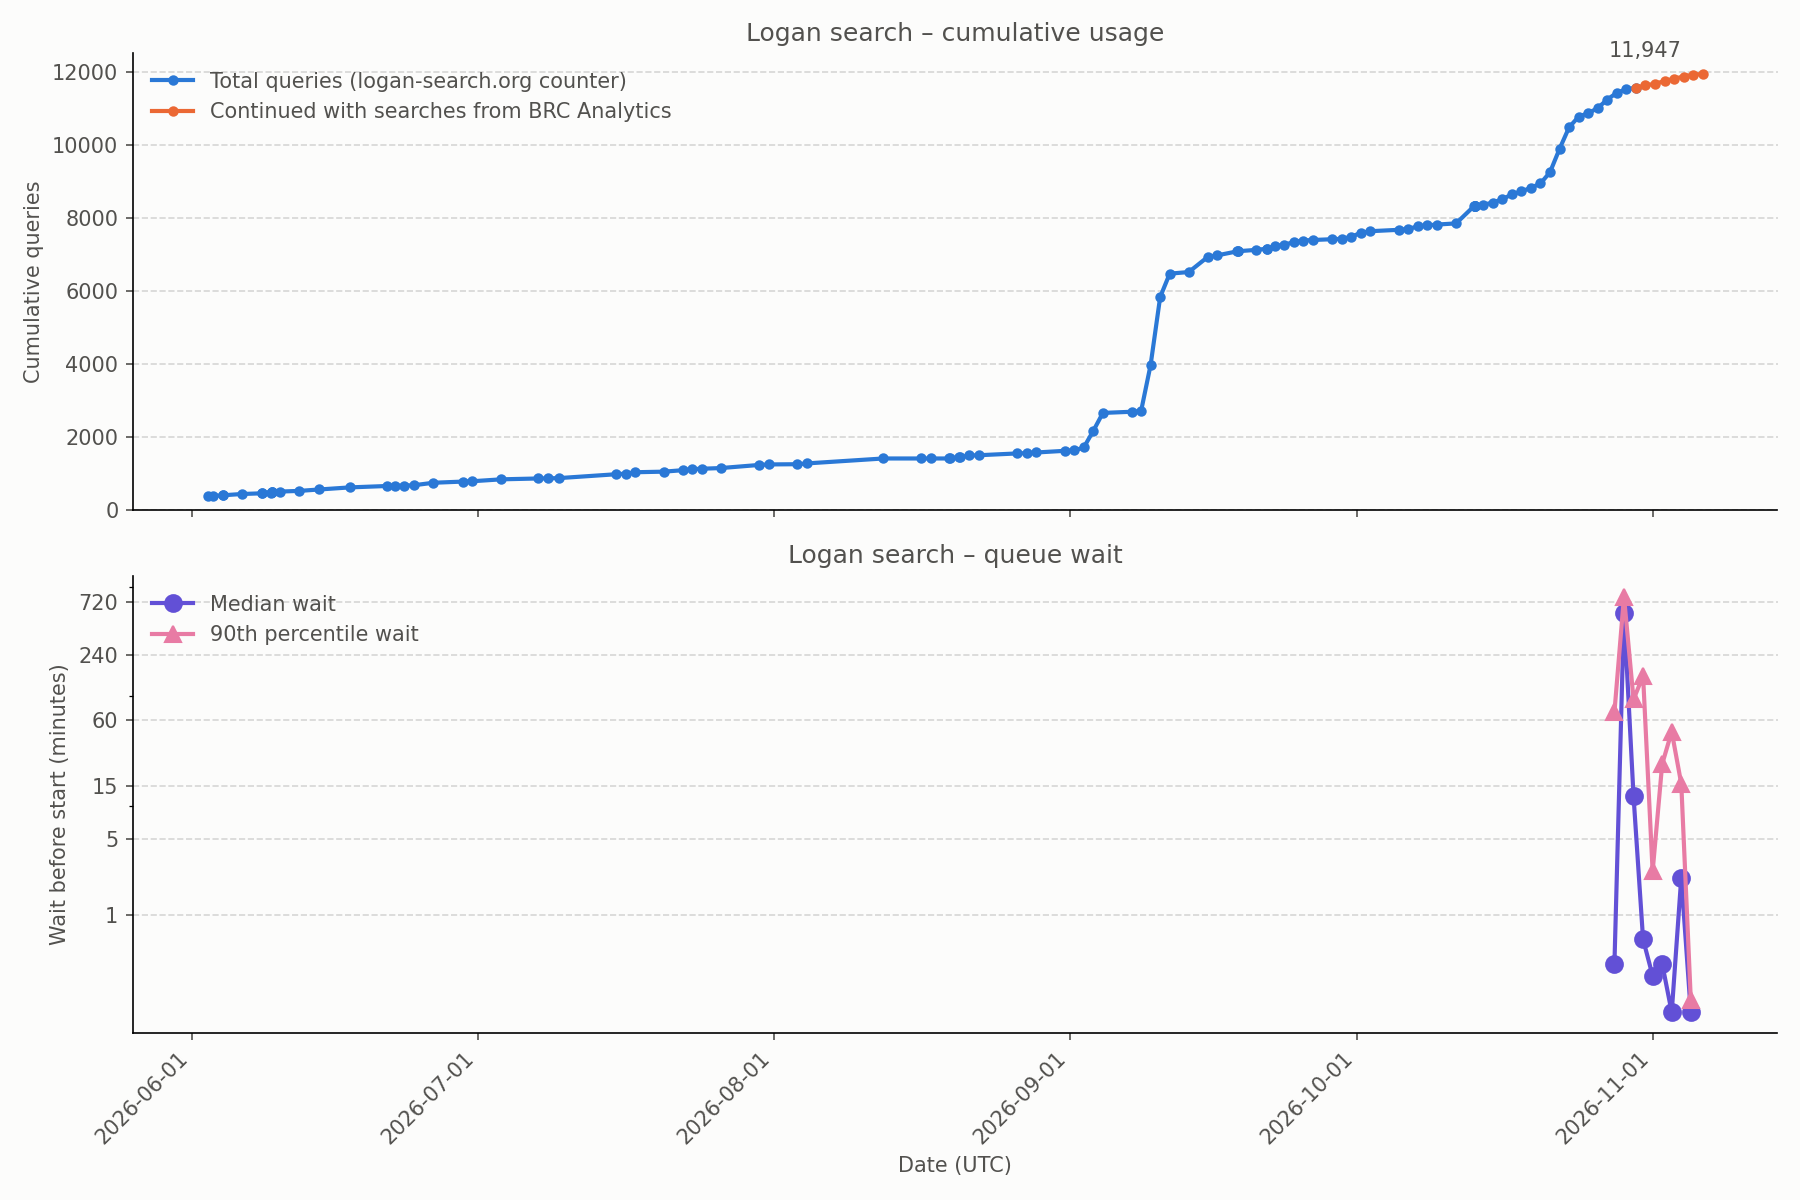
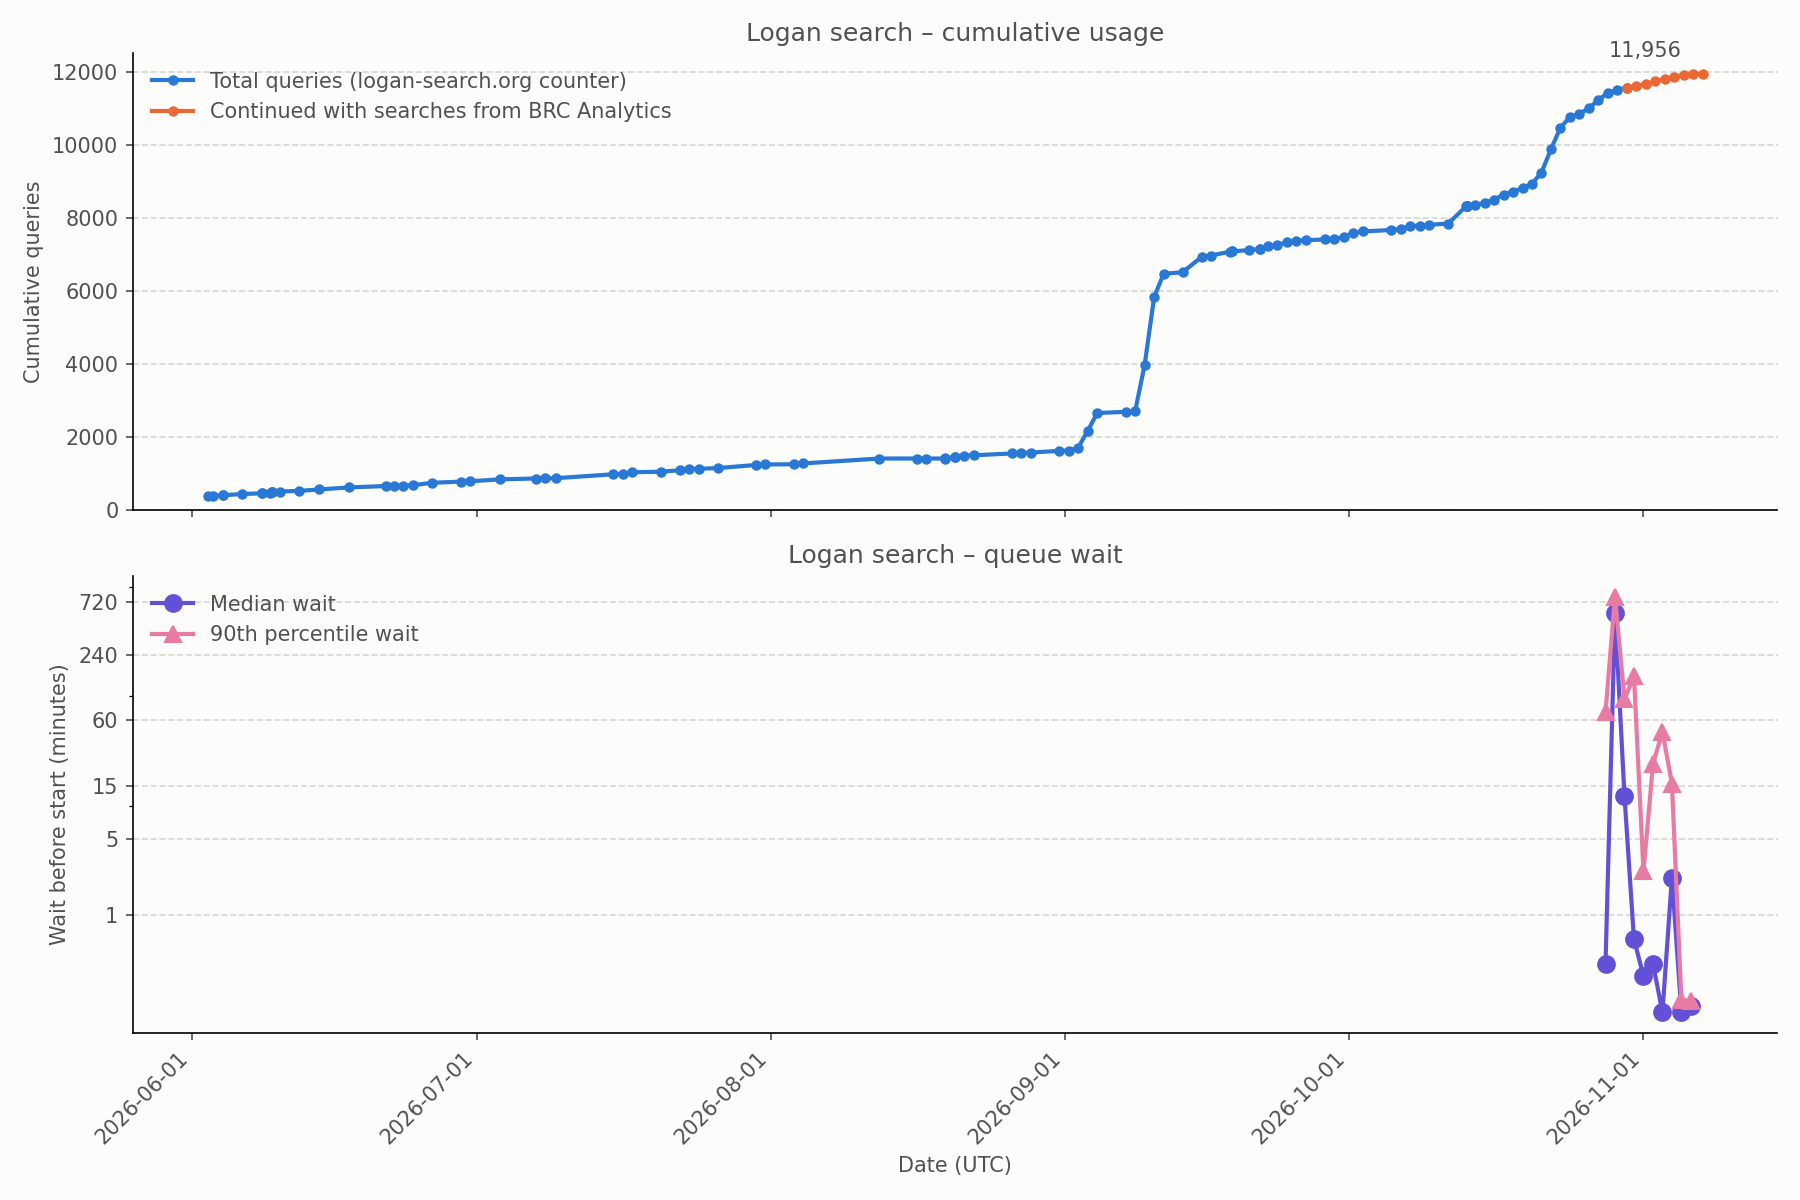
Update statistics 2026-11-07

diff --git a/README.md b/README.md
@@ -5,8 +5,8 @@ Usage statistics of [Logan Search](https://logan-search.org), updated once a day
 ## Yesterday
 
 <!-- daily-queries:start -->
-**Queries on 2026-11-05 (UTC): 11** on the backend (BRC Analytics history).
-The logan-search.org counter increased by 0 between 2026-11-05 06:00 and 2026-11-06 06:00 UTC.
+**Queries on 2026-11-06 (UTC): 3** on the backend (BRC Analytics history).
+The logan-search.org counter increased by 0 between 2026-11-06 06:00 and 2026-11-07 06:00 UTC.
 <!-- daily-queries:end -->
 
 ## Queries made on logan-search.org
